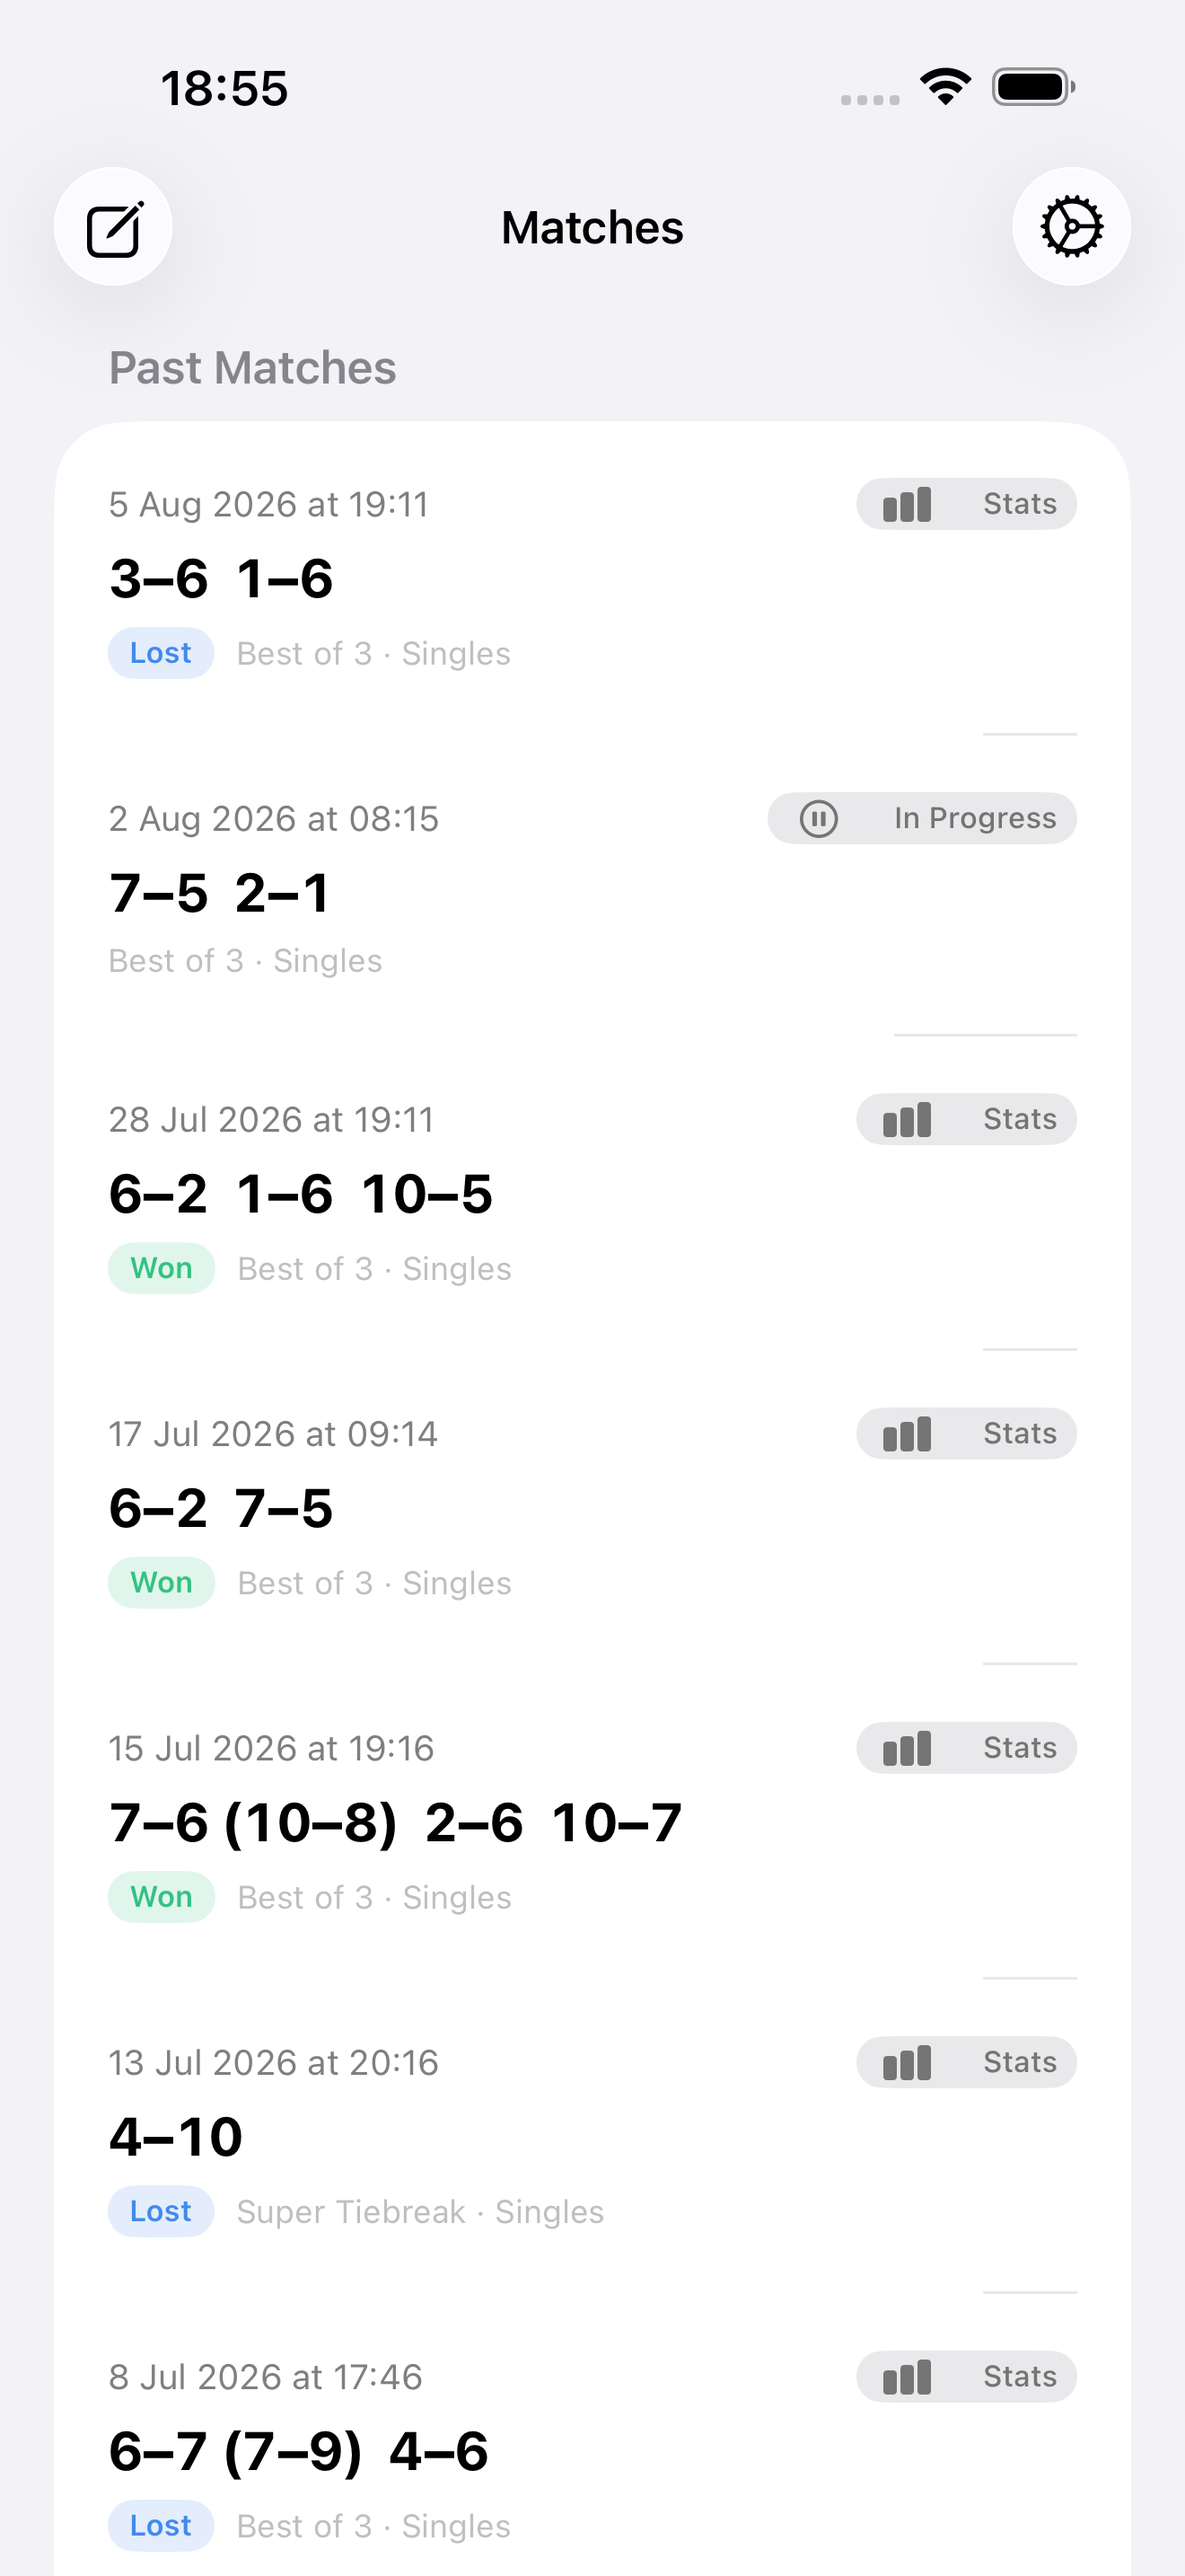
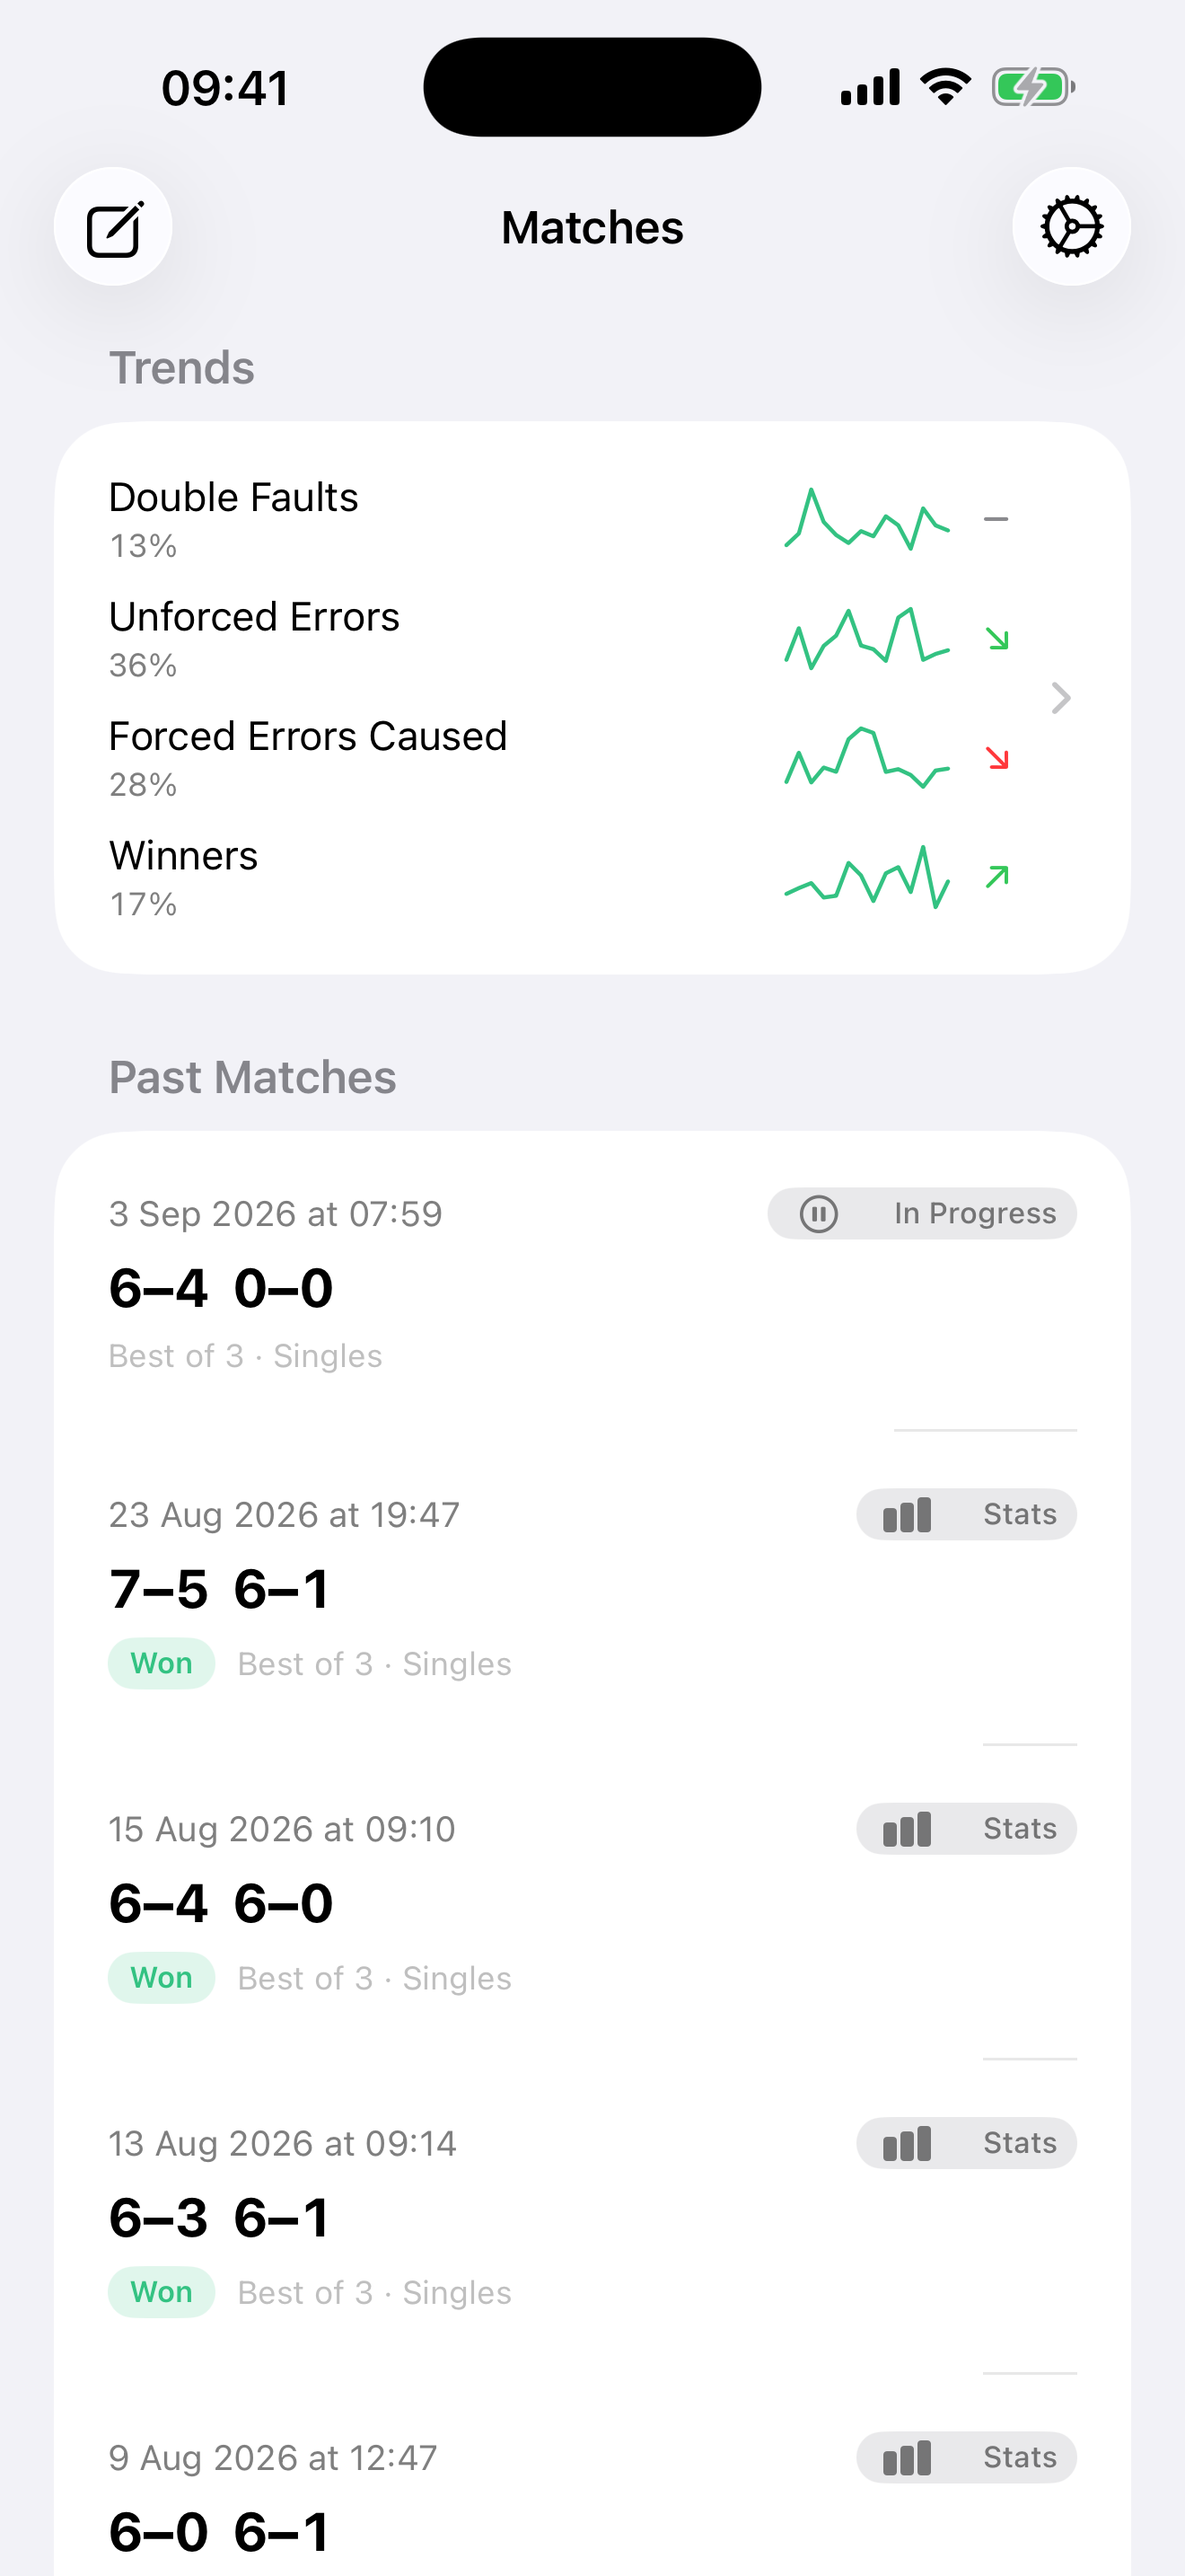
docs: refresh Trends App Store screenshots

diff --git a/docs/app-store-screenshots/marketing/ad-1-watch-iphone.html b/docs/app-store-screenshots/marketing/ad-1-watch-iphone.html
@@ -32,7 +32,7 @@
 
   <div class="copy">
     <h1 class="headline">Score on your <span class="accent">wrist</span>.</h1>
-    <p class="subhead">Every match, kept on your iPhone.</p>
+    <p class="subhead">Every match recorded. Your trends revealed.</p>
   </div>
 
   <div class="stage">

diff --git a/docs/app-store-screenshots/README.md b/docs/app-store-screenshots/README.md
@@ -37,17 +37,20 @@ Watch section, where framing a Watch inside a drawn Watch adds nothing.
 
 Directory: [`iphone-6.9/`](./iphone-6.9/)
 
-All five PNGs are **1320 x 2868**, portrait, with no alpha. They were captured
-on the iPhone 17 Pro Max simulator using the latest completed match with point
-statistics, `44ACB61B-BBF0-444C-86BC-2A0125E0DF6D` (5 August 2026, 3-6 1-6,
-124 tracked points), from `deucemate_archive_2026-08-06.json`.
+All five PNGs are **1320 x 2868**, portrait, with no alpha. Items 1–4 were
+captured on the iPhone 17 Pro Max simulator using the point-tracked match
+`44ACB61B-BBF0-444C-86BC-2A0125E0DF6D` (5 August 2026, 3-6 1-6, 124 tracked
+points), from `deucemate_archive_2026-08-06.json`. Item 5 was refreshed on 8
+September 2026 from the supplied full-fidelity archive after excluding its five
+newest short-format matches (three Super Tiebreak and two Perpetual Points), so
+the shot shows the Trends summary and only the full match history.
 
 1. `01-match-overview.png` - completed score, result, points split, and graph
 2. `02-points-momentum.png` - full-screen point momentum, authentic health
    overlays, and outcome filters
 3. `03-match-stats.png` - outcome and serve comparisons
 4. `04-coaching-insights.png` - match duration and data-driven coaching
-5. `05-match-archive.png` - match history and statistics availability
+5. `05-match-archive.png` - Trends summary plus full match history
 
 This one 6.9-inch set satisfies the iPhone screenshot-size requirement; do not
 mix in the older 6.3/6.5-inch files from `docs/website/screenshots/` for this

diff --git a/docs/app-store-screenshots/marketing/README.md b/docs/app-store-screenshots/marketing/README.md
@@ -17,7 +17,7 @@ requires one consistent size across an iPhone screenshot set.
 
 | Frame | Headline | Why it exists |
 |---|---|---|
-| 01 | Score on your **wrist**. | The one thing the old gallery never said: this is an Apple Watch scorer, and the iPhone is its companion. The Watch is oversized relative to true scale and sits in front of the phone so the score survives thumbnail size. |
+| 01 | Score on your **wrist**. | The iPhone subhead adds “Every match recorded. Your trends revealed.” The Watch is oversized relative to true scale and sits in front of the phone so the score survives thumbnail size. |
 | 02 | See where the match **turned**. | The momentum graph is the most distinctive image the app produces. |
 | 03 | Hand your match to an **AI coach**. | The differentiator — the "Open in ChatGPT / Claude / Gemini" rows are the payload of the frame. |
 
